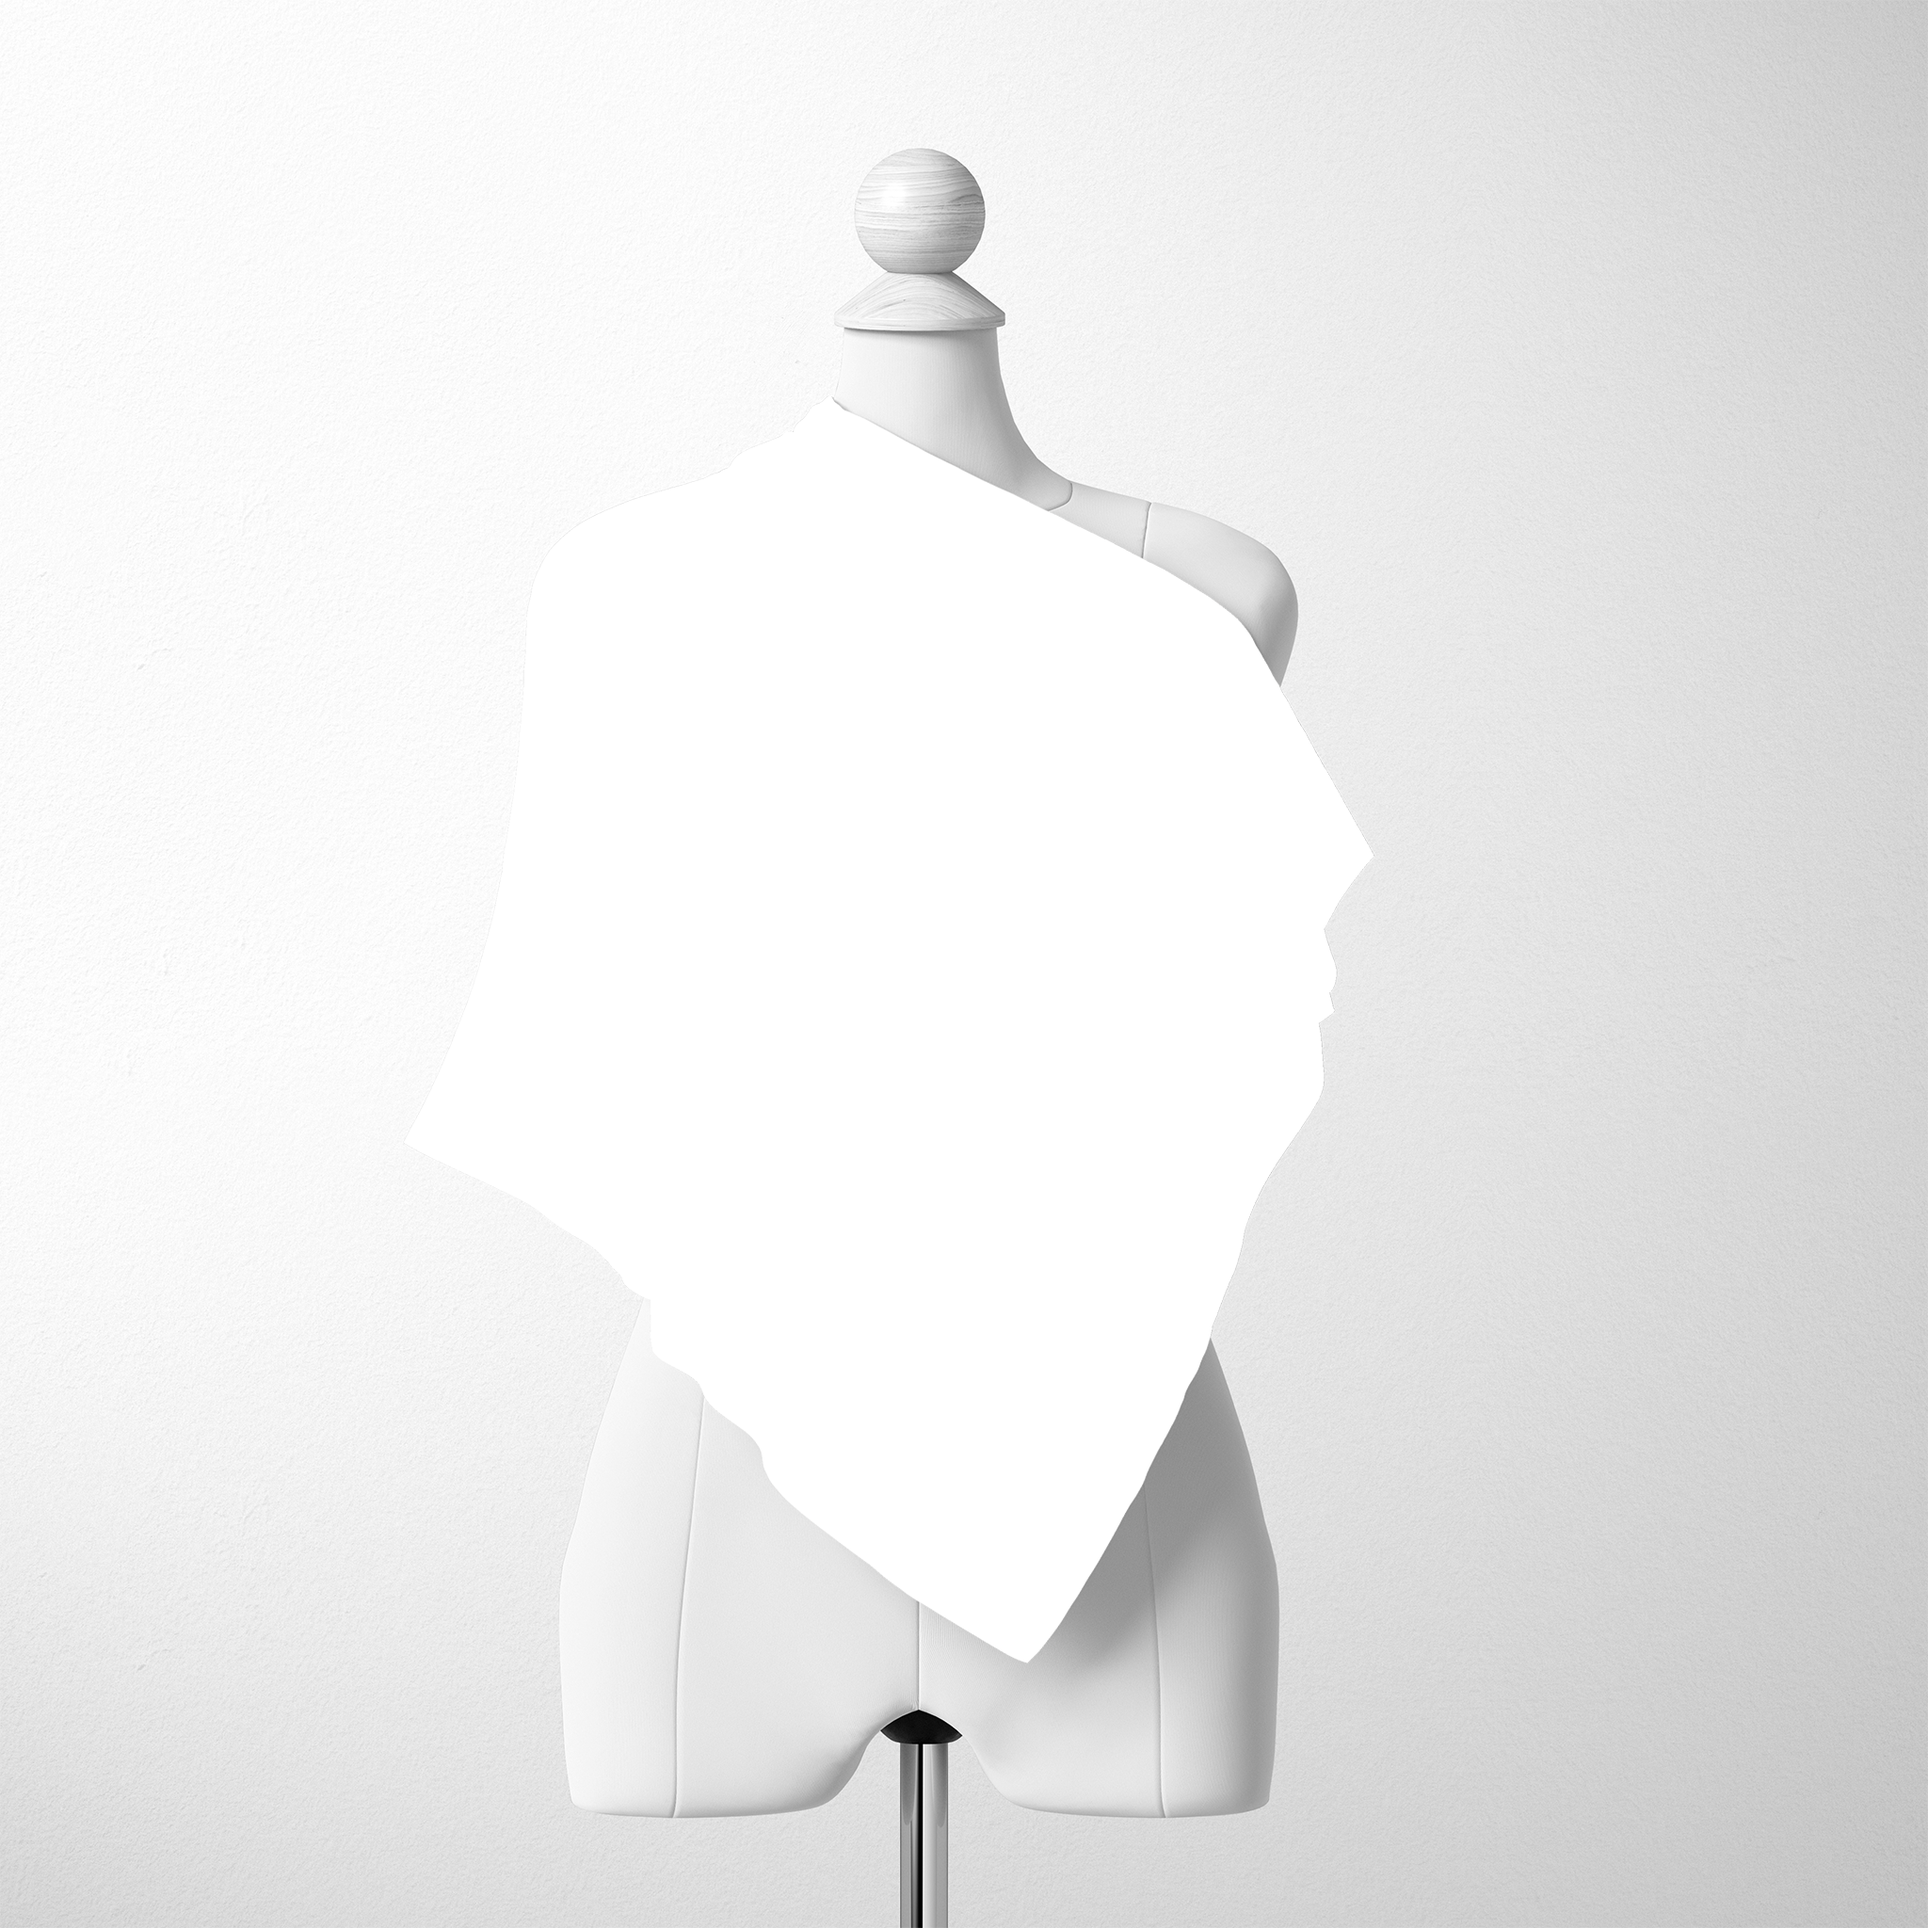
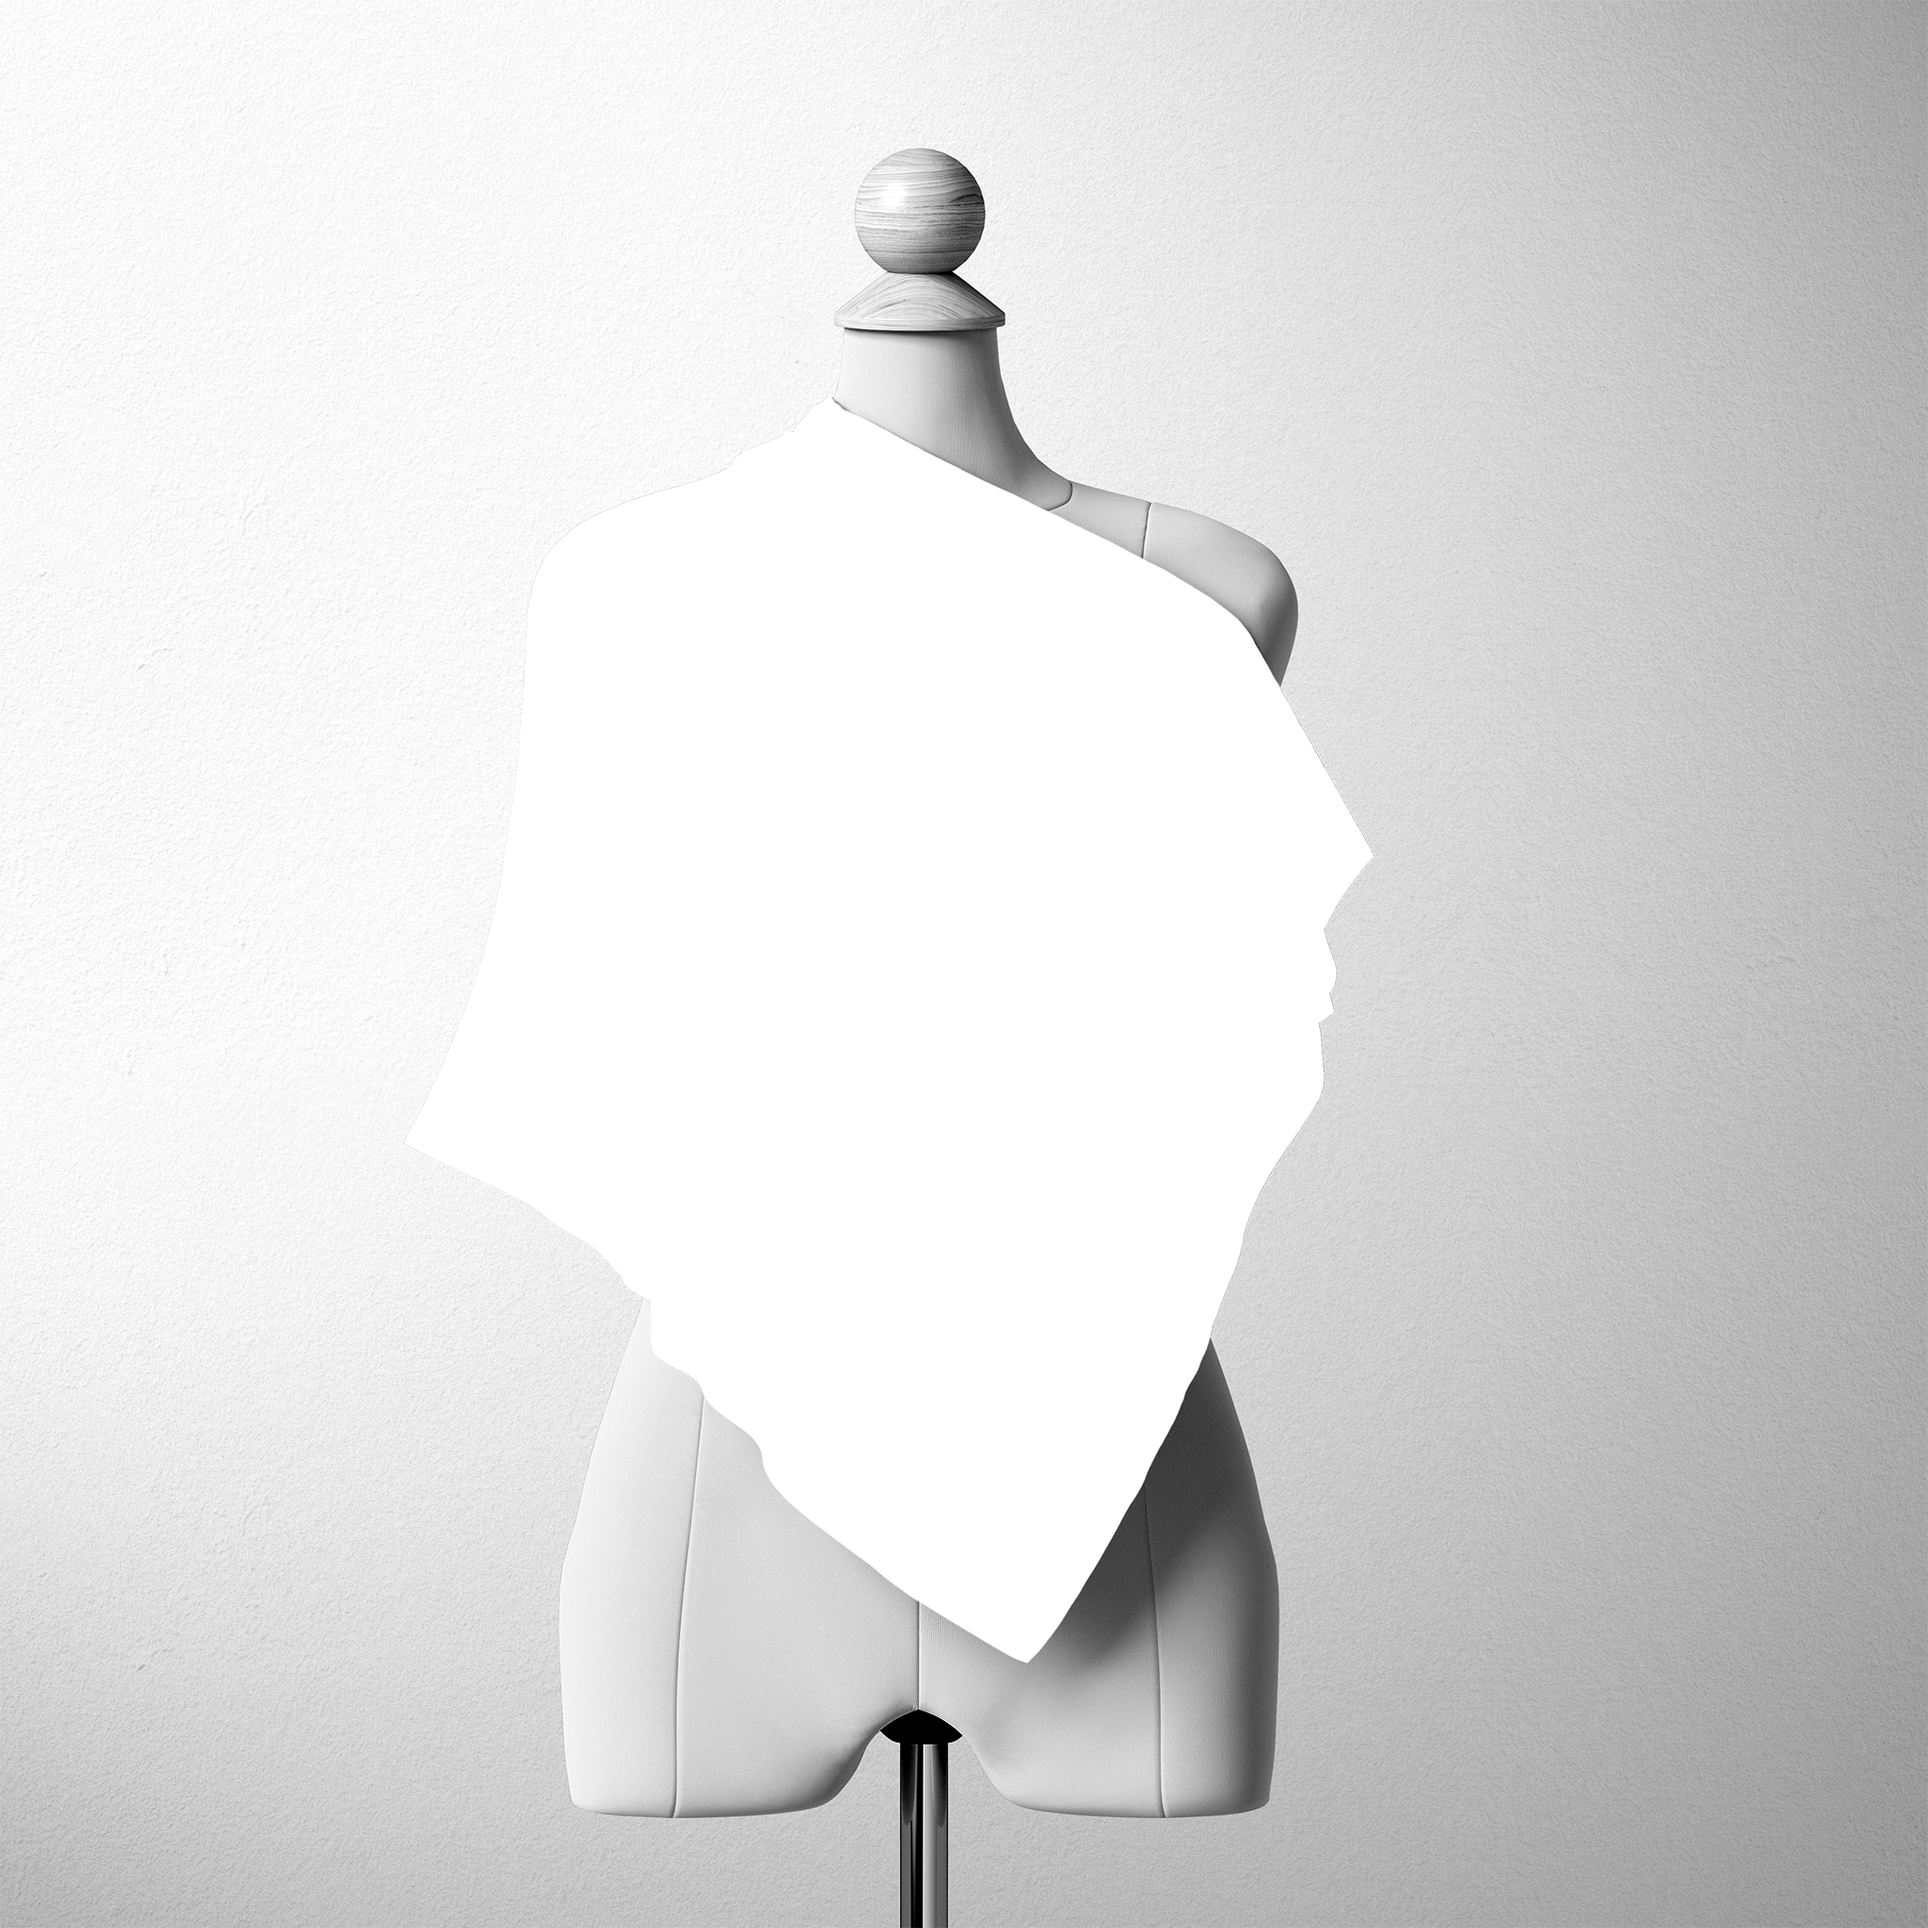
chore: resize material

Changed region(s): [[0.0, 0.0, 1.0, 1.0], [0.4375, 0.0625, 0.5938, 0.2812], [0.5938, 0.2812, 0.6875, 0.3438]]

diff --git a/src/componentsFor3D/BasicModel/index.tsx b/src/componentsFor3D/BasicModel/index.tsx
@@ -14,7 +14,7 @@ const BasicModel = () => {
   // rest of your component code here
   return (
     <mesh position={[0, 0.4, 0.07]}>
-      <planeBufferGeometry args={[2.1, 2.1, 1]} />
+      <planeBufferGeometry args={[2.18, 2.1, 1]} />
       <meshStandardMaterial
         map={texture}
         lightMap={texture}
